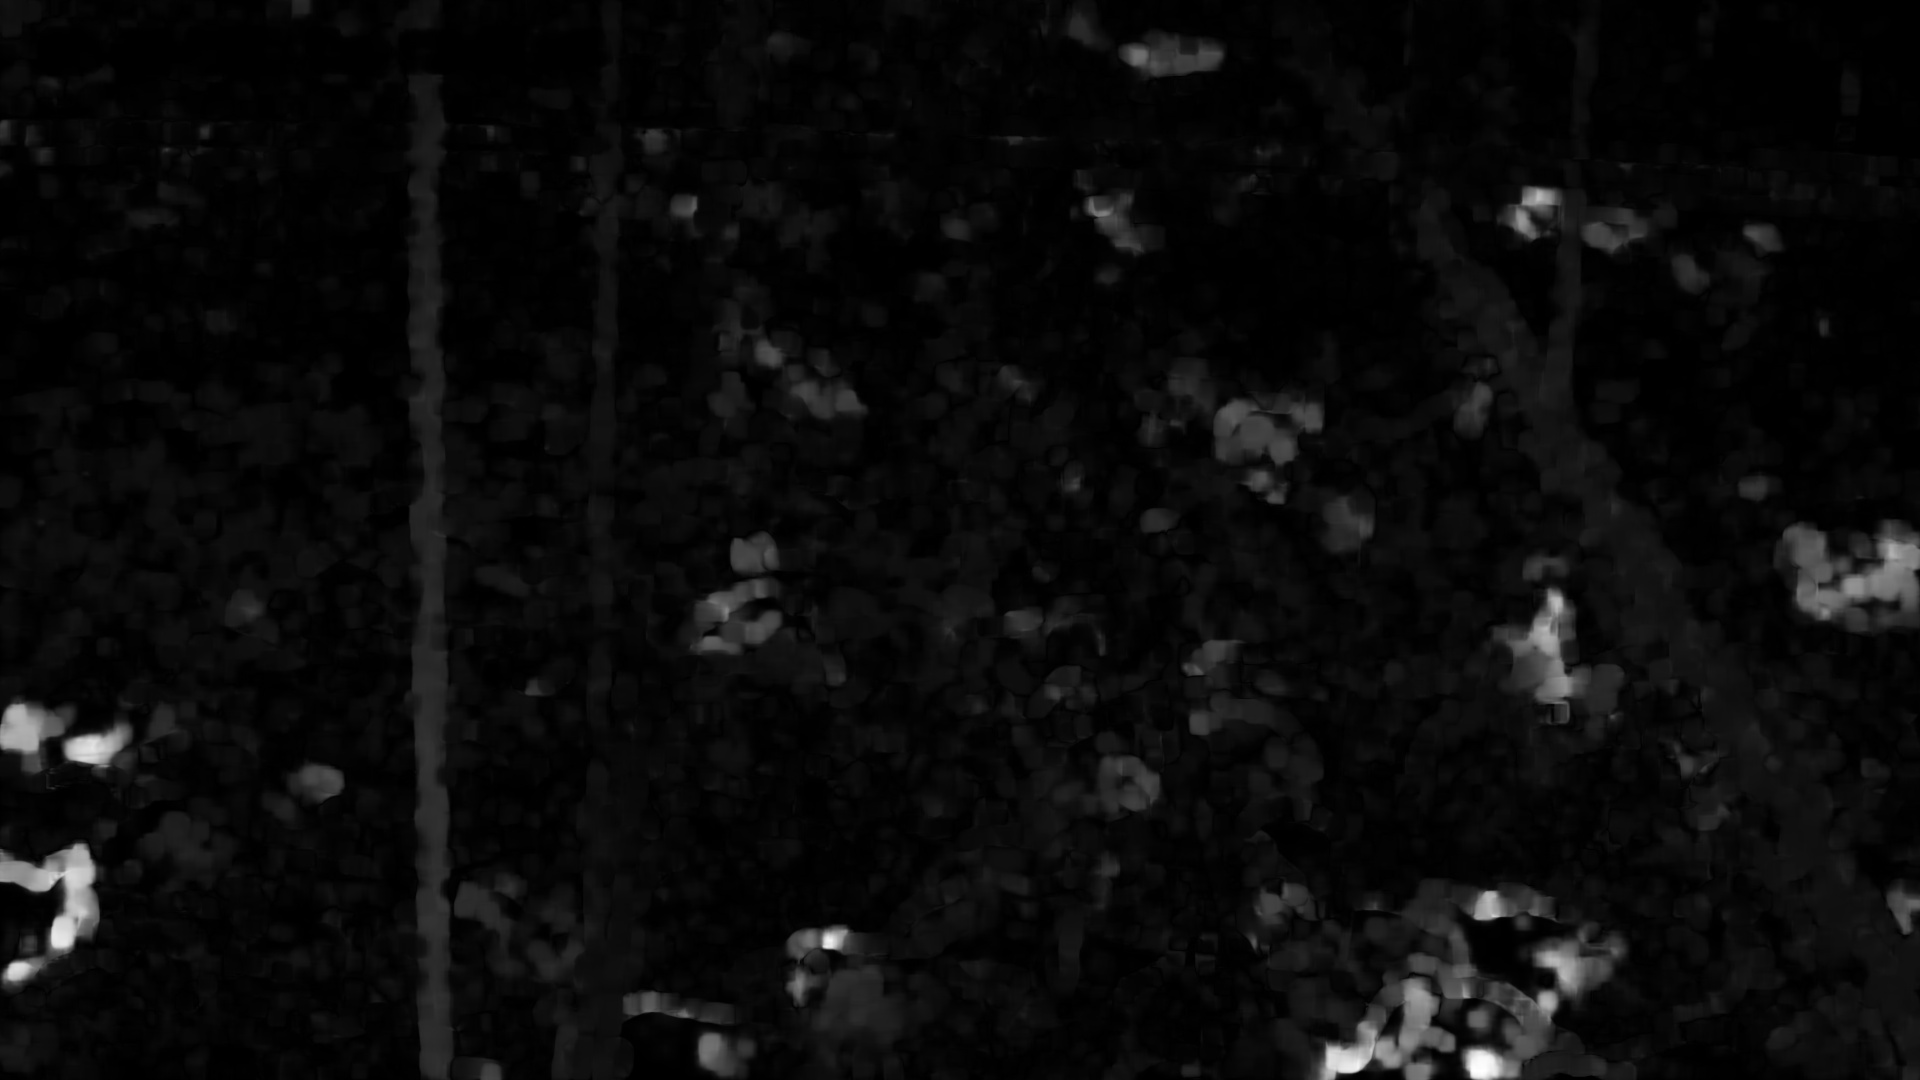
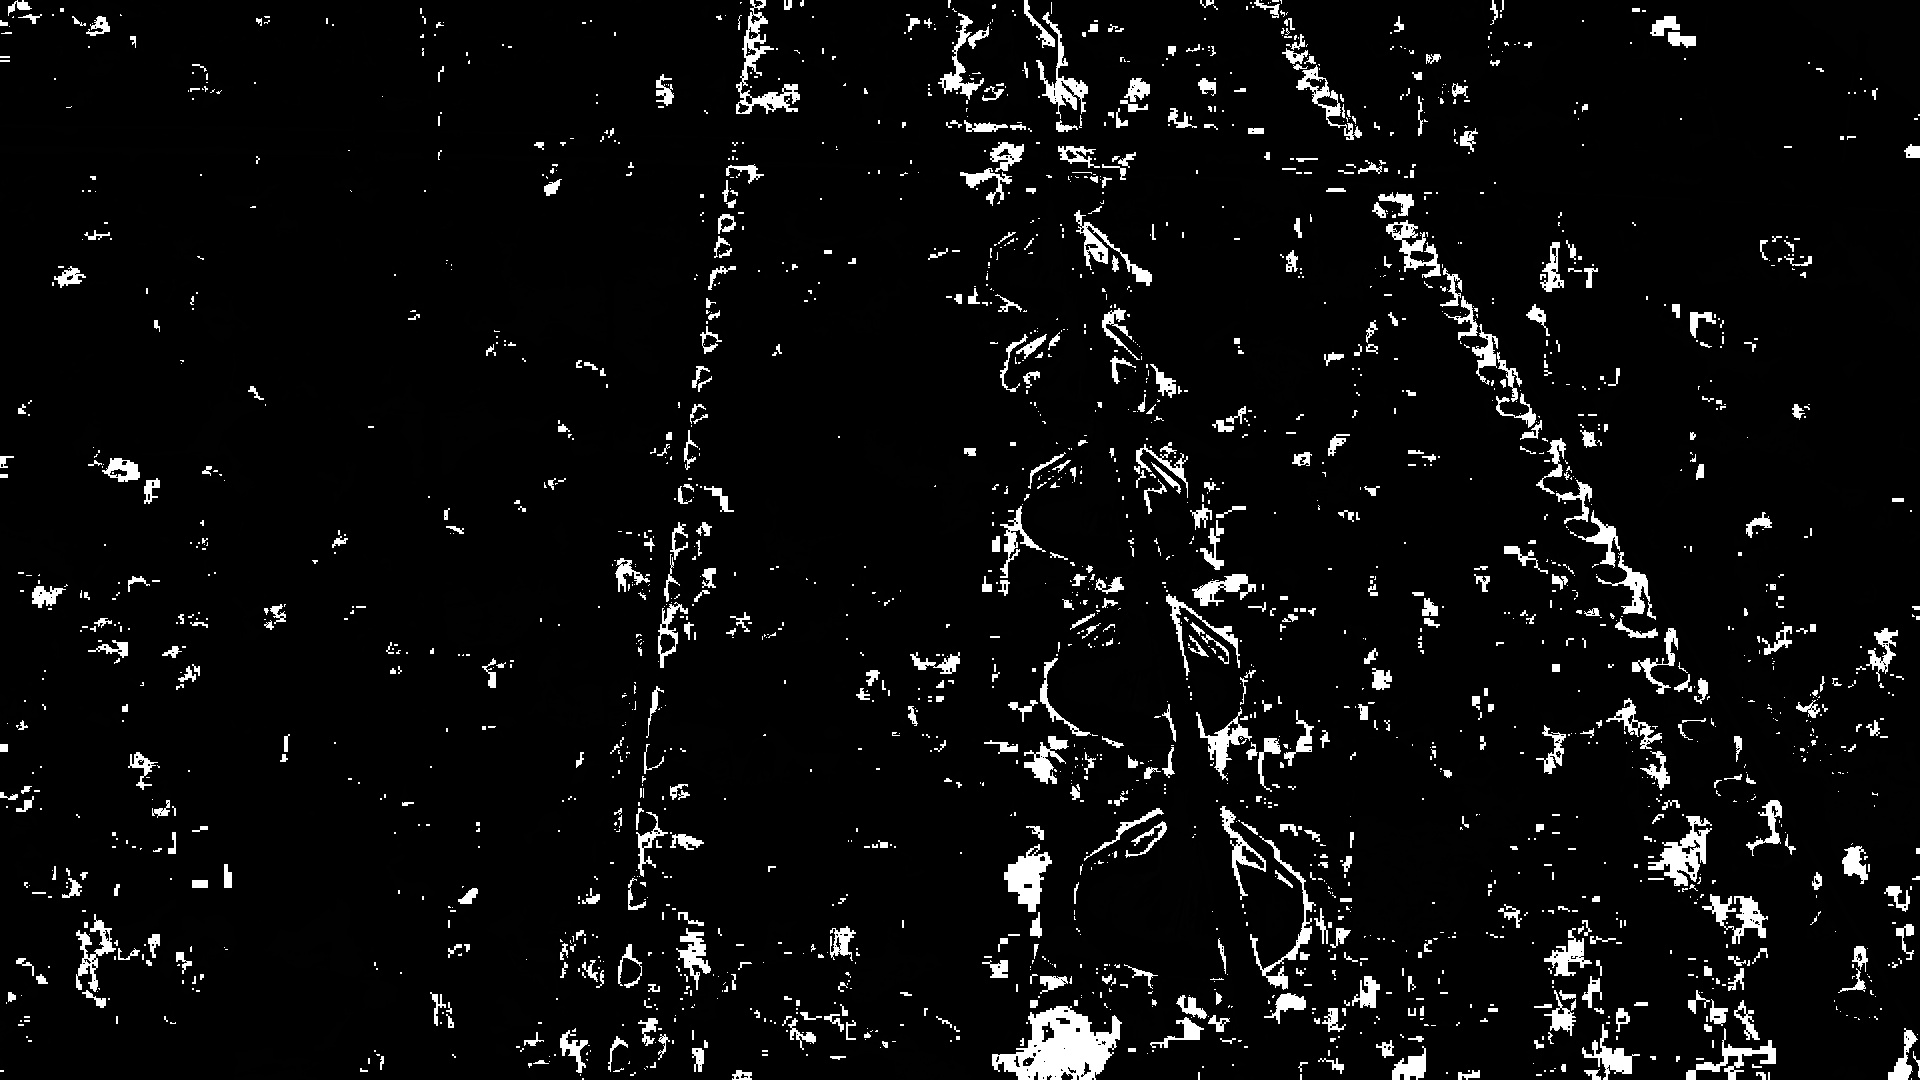
hsv v0.2

diff --git a/OPENCVTEST/hsv.cpp b/OPENCVTEST/hsv.cpp
@@ -1,6 +1,7 @@
 #include <iostream>
 #include <opencv2/core.hpp>
 #include <opencv2/highgui.hpp>
+#include <opencv2/highgui/highgui.hpp>
 #include <opencv2/imgproc.hpp>
 #include <opencv2/videoio.hpp>
 #include <opencv2/video.hpp>
@@ -8,30 +9,7 @@
 using namespace cv;
 using namespace std;
 
-Mat _hsv[3], frame_hsv, _cum[3];
-vector<Mat> buff;
-
-const int slider_max = 255;
-
-// 0 52
-int sliderHmin = 0;
-// 0 119
-int sliderSmin = 0;
-// 170 211
-int sliderVmin = 0;
-
-int sliderHmax = 255;
-int sliderSmax = 255;
-int sliderVmax = 255;
-
-
-int sliderHmin_ = 0;
-int sliderSmin_ = 0;
-int sliderVmin_ = 0;
-
-int sliderHmax_ = 255;
-int sliderSmax_ = 255;
-int sliderVmax_ = 255;
+Mat _hsv[3], frame_hsv, result;
 
 Mat isolateChannel(Mat input, int min, int max) {
     Mat ret = input.clone();
@@ -54,6 +32,31 @@ Mat isolateChannel(Mat input, int min, int max) {
     return ret;
 }
 
+Mat multipliMat(Mat a, Mat b) {
+    Mat ret = a.clone();
+
+    for (int i = 0; i < ret.rows; i++) {
+        for (int j = 0; j < ret.cols; j++) {
+            uint8_t pix1 = a.at<int8_t>(i, j);
+            uint8_t pix2 = b.at<int8_t>(i, j);
+
+            double pd1 = pix1;
+            double pd2 = pix2;
+
+            pd1 /= 255;
+            pd2 /= 255;
+
+            pd1 *= pd2;
+            pd1 *= 255;
+
+            ret.at<int8_t>(i, j) = pd1;
+
+        }
+    }
+
+    return ret;
+}
+
 Mat substractMat(Mat a, Mat b, Mat c) {
     Mat ret = a.clone();
 
@@ -67,141 +70,123 @@ Mat substractMat(Mat a, Mat b, Mat c) {
 
     return ret;
 }
-static void trackbarHmin(int, void*){
-    if (sliderHmin_ == sliderHmin) return;
-    imshow("h", isolateChannel(_hsv[0], sliderHmin, sliderHmax));
-    sliderHmin_ = sliderHmin;
-}
-static void trackbarSmin(int, void*) {
-    if (sliderSmin_ == sliderSmin) return;
-    imshow("s", isolateChannel(_hsv[1], sliderSmin, sliderSmax));
-    sliderSmin_ = sliderSmin;
-}
-static void trackbarVmin(int, void*) {
-    if (sliderVmin_ == sliderVmin) return;
-    imshow("v", isolateChannel(_hsv[2], sliderVmin, sliderVmax));
-    sliderVmin_ = sliderVmin;
-}
-
-static void trackbarHmax(int, void*) {
-    if (sliderHmax_ == sliderHmax) return;
-    imshow("h", isolateChannel(_hsv[0], sliderHmin, sliderHmax));
-    sliderHmax_ = sliderHmax;
-}
-static void trackbarSmax(int, void*) {
-    if (sliderSmax_ == sliderSmax) return;
-    imshow("s", isolateChannel(_hsv[1], sliderSmin, sliderSmax));
-    sliderSmax_ = sliderSmax;
-}
-static void trackbarVmax(int, void*) {
-    if (sliderVmax_ == sliderVmax) return;
-    imshow("v", isolateChannel(_hsv[2], sliderVmin, sliderVmax));
-    sliderVmax_ = sliderVmax;
-}
 
 int main() {
-    /* load stuff */
+    cout << "_________________________________" << endl;
+    cout << "|                               |" << endl;
+    cout << "|Dead broiler detector by Wgmlgz|" << endl;
+    cout << "|_______________________________|" << endl;
+    cout << endl;
 
+    /* load stuff */
+    // video load
     VideoCapture capture(samples::findFile("vid.avi"));
     if (!capture.isOpened()) {
         //error in opening the video input
         cerr << "Unable to open file!" << endl;
         return 0;
     }
-    namedWindow("Cum", WINDOW_FREERATIO);
+
+    // windows initialization
+    namedWindow("Main window (tmp frame vision / result)", WINDOW_FREERATIO);
     namedWindow("h", WINDOW_FREERATIO);
     namedWindow("s", WINDOW_FREERATIO);
     namedWindow("v", WINDOW_FREERATIO);
 
 
-    /* main cycle */
-    cout << "enter frames numbers: ";
+    // setup values
+    cout << endl << "enter start_frame, end_frame, step: ";
     int start_frame = 0;
     int end_frame = 700;
-    //cin >> do_frames;
+    int step = 1;
+    
+    // input values (uncomment if need)
+    //cin >> start_frame;
+    //cin >> end_frame;
+    //cin >> step;
 
-    for (int i = 0; i < start_frame; ++i) {
-        Mat frame;
+    cout << endl << "input complite or default values are used" << endl;
+
+    /* main cycle */
+    // skip frames
+    Mat frame;
+    for (int i = 0; i < start_frame; i += step) {
         capture >> frame;
         if (frame.empty())
             break;
     }
-    for (int i = start_frame; i < end_frame; ++i) {
+
+    // init summ buffer
+    capture >> frame;
+    vector<vector<uint64_t>> sum(frame.rows, vector<uint64_t>(frame.cols));
+
+    // main loop
+    for (int i = start_frame; i < end_frame; i += step) {
         // load frame
-        cout << "frame " << i << endl;
-        Mat frame;
+        cout << "analizing frame " << i << endl;
         capture >> frame;
-        if (frame.empty())
-            break;
+        if (frame.empty()) break;
 
         // to hsv
         cvtColor(frame, frame_hsv, COLOR_BGR2HSV);
         split(frame_hsv, _hsv);
-
         _hsv[0] = isolateChannel(_hsv[0], 162, 194);
         _hsv[1] = isolateChannel(_hsv[1], 136, 255);
         _hsv[2] = isolateChannel(_hsv[2], 44, 85);
 
-        // show
+        // show hsv
         imshow("h", _hsv[0]);
         imshow("s", _hsv[1]);
         imshow("v", _hsv[2]);
 
-        Mat cum = substractMat(_hsv[0], _hsv[1], _hsv[2]);
-        imshow("Cum", cum);
-        buff.push_back(cum);
-        //createTrackbar("H min", "h", &sliderHmin, slider_max, trackbarHmin);
-        //createTrackbar("S min", "s", &sliderSmin, slider_max, trackbarSmin);
-        //createTrackbar("V min", "v", &sliderVmin, slider_max, trackbarVmin);
-        //
-        //createTrackbar("H max", "h", &sliderHmax, slider_max, trackbarHmax);
-        //createTrackbar("S max", "s", &sliderSmax, slider_max, trackbarSmax);
-        //createTrackbar("V max", "v", &sliderVmax, slider_max, trackbarVmax);
-        //
-        //trackbarHmin(sliderHmin, 0);
-        //trackbarSmin(sliderSmin, 0);
-        //trackbarVmin(sliderVmin, 0);
-        //
-        //trackbarHmin(sliderHmax, 0);
-        //trackbarSmin(sliderSmax, 0);
-        //trackbarVmin(sliderVmax, 0);
-        //
-        waitKey(10);
-    }
+        // show and save tmp result
+        Mat tmp_res = substractMat(_hsv[0], _hsv[1], _hsv[2]);
+        imshow("Main window (tmp frame vision / result)", tmp_res);
+        string savingName = to_string(i) + ".jpg";
+        imwrite(savingName, tmp_res);
+        
+        // add value to summ buffer
+        for (int i = 0; i < tmp_res.rows; i++)
+            for (int j = 0; j < tmp_res.cols; j++)
+                sum[i][j] += (uint8_t)tmp_res.at<int8_t>(i, j);
 
+        waitKey(30);
+    }
     cout << "end scan" << endl;
-    vector<vector<uint64_t>> sum(buff[0].rows, vector<uint64_t>(buff[0].cols));
-    cout << "vector complete" << endl;
-    for (int k = 0; k < buff.size(); ++k) {
-        cout << "sum frame " << to_string(k) << endl;
-        for (int i = 0; i < buff[k].rows; i++) {
-            for (int j = 0; j < buff[k].cols; j++) {
-                sum[i][j] += (uint8_t)buff[k].at<int8_t>(i, j);
-            }
-        }
-    }
-    cout << "end sum" << endl;
+
+
+    /* result */
+    // find max value
     double max = 0;
-    for (int i = 0; i < sum.size(); i++) {
-        for (int j = 0; j < sum[0].size(); j++) {
-            if (sum[i][j] > max) {
-                max = sum[i][j];
-            }
-        }
-    }
+    for (int i = 0; i < sum.size(); i++)
+        for (int j = 0; j < sum[0].size(); j++)
+            if (sum[i][j] > max) max = sum[i][j];
     cout << "end max" << endl;
 
-    Mat result = buff[0];
+    // normalize
+    Mat result = frame;
     for (int i = 0; i < sum.size(); i++) {
         for (int j = 0; j < sum[0].size(); j++) {
             int tmp = (((double)sum[i][j]) / max) * 255;
             result.at<int8_t>(i, j) = tmp;
-            result.at<int8_t>(i, j) = tmp;
-            result.at<int8_t>(i, j) = tmp;
         }
     }
-    cout << "end res" << endl;
-    imshow("Cum", result);
-    imwrite("shvCUM!!!!!!!.png", result);
-    waitKey();
+    cout << "end normalize" << endl;
+
+    // filter
+    Mat mask = imread("mask.png", IMREAD_GRAYSCALE);
+    result = multipliMat(mask, result);
+    result = isolateChannel(result, 100, 255);
+    blur(result, result, Size(30, 30));
+    result = isolateChannel(result, 90, 255);
+    cout << "end filter" << endl;
+
+    // output
+    imshow("Main window (tmp frame vision / result)", result);
+    imwrite("result.png", result);
+    cout << "end output" << endl;
+
+    // end
+    cout << "end!" << endl;
+    waitKey(1000000000000);
 }

diff --git a/OPENCVTEST/tmp_stuff.cpp b/OPENCVTEST/tmp_stuff.cpp
@@ -1,0 +1,93 @@
+/*
+
+const int slider_max = 255;
+
+// 162 194
+int sliderHmin = 0;
+// 136 255
+int sliderSmin = 0;
+// 44 85
+int sliderVmin = 0;
+
+int sliderHmax = 255;
+int sliderSmax = 255;
+int sliderVmax = 255;
+
+
+int sliderHmin_ = 0;
+int sliderSmin_ = 0;
+int sliderVmin_ = 0;
+
+int sliderHmax_ = 255;
+int sliderSmax_ = 255;
+int sliderVmax_ = 255;
+
+int slider_min_ = 0;
+int slider_max_ = 255;
+
+static void trackbarHmin(int, void*){
+    if (sliderHmin_ == sliderHmin) return;
+    imshow("h", isolateChannel(_hsv[0], sliderHmin, sliderHmax));
+    sliderHmin_ = sliderHmin;
+}
+static void trackbarSmin(int, void*) {
+    if (sliderSmin_ == sliderSmin) return;
+    imshow("s", isolateChannel(_hsv[1], sliderSmin, sliderSmax));
+    sliderSmin_ = sliderSmin;
+}
+static void trackbarVmin(int, void*) {
+    if (sliderVmin_ == sliderVmin) return;
+    imshow("v", isolateChannel(_hsv[2], sliderVmin, sliderVmax));
+    sliderVmin_ = sliderVmin;
+}
+
+static void trackbarHmax(int, void*) {
+    if (sliderHmax_ == sliderHmax) return;
+    imshow("h", isolateChannel(_hsv[0], sliderHmin, sliderHmax));
+    sliderHmax_ = sliderHmax;
+}
+static void trackbarSmax(int, void*) {
+    if (sliderSmax_ == sliderSmax) return;
+    imshow("s", isolateChannel(_hsv[1], sliderSmin, sliderSmax));
+    sliderSmax_ = sliderSmax;
+}
+static void trackbarVmax(int, void*) {
+    if (sliderVmax_ == sliderVmax) return;
+    imshow("v", isolateChannel(_hsv[2], sliderVmin, sliderVmax));
+    sliderVmax_ = sliderVmax;
+}
+
+static void trackbar_min(int, void*) {
+    //if (sliderVmax_ == slider_max) return;
+    imshow("Window", isolateChannel(result, slider_min_, slider_max_));
+    //sliderSmax_ = slider_max;
+}
+static void trackbar_max(int, void*) {
+    //if (sliderVmax_ == slider_max) return;
+    imshow("Window", isolateChannel(result, slider_min_, slider_max_));
+    //slider_max_ = slider_max;
+}
+
+createTrackbar("H min", "h", &sliderHmin, slider_max, trackbarHmin);
+createTrackbar("S min", "s", &sliderSmin, slider_max, trackbarSmin);
+createTrackbar("V min", "v", &sliderVmin, slider_max, trackbarVmin);
+
+createTrackbar("H max", "h", &sliderHmax, slider_max, trackbarHmax);
+createTrackbar("S max", "s", &sliderSmax, slider_max, trackbarSmax);
+createTrackbar("V max", "v", &sliderVmax, slider_max, trackbarVmax);
+
+trackbarHmin(sliderHmin, 0);
+trackbarSmin(sliderSmin, 0);
+trackbarVmin(sliderVmin, 0);
+
+trackbarHmin(sliderHmax, 0);
+trackbarSmin(sliderSmax, 0);
+trackbarVmin(sliderVmax, 0);
+
+createTrackbar("min", "Window", &slider_min_, slider_max, trackbar_min);
+createTrackbar("max", "Window", &slider_max_, slider_max, trackbar_max);
+trackbar_min(slider_min_, 0);
+trackbar_min(slider_max_, 0);
+
+result = imread("shvCUM!!!!!!!.png", IMREAD_GRAYSCALE);
+*/
